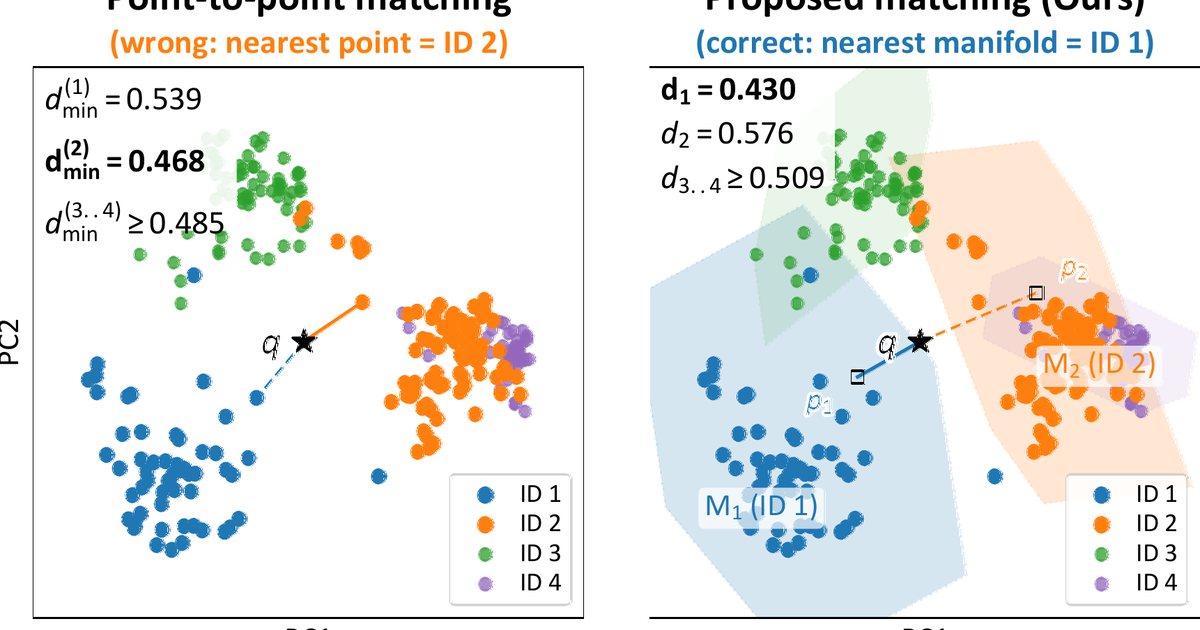
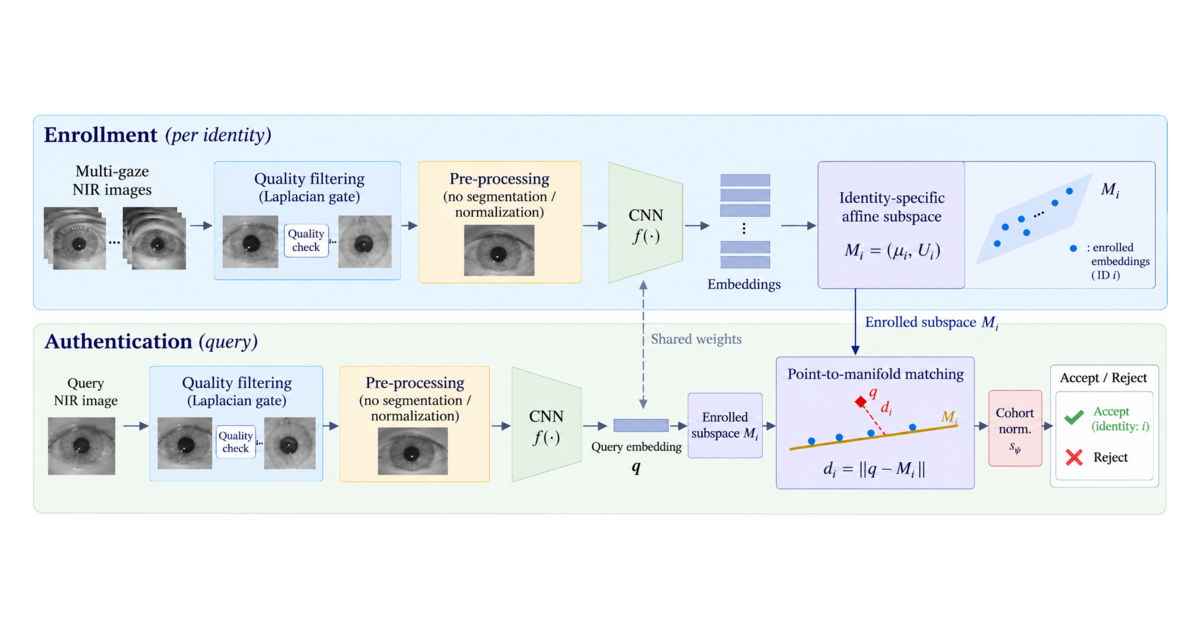
Lead with the overall framework figure
The enrollment/authentication diagram is the overview of the method, so it
now sits directly under the header as the teaser. The PCA matching
comparison moves into Method, where it illustrates what the residual
distance buys. The social card is rebuilt from the framework figure.

Claude-Session: https://claude.ai/code/session_01BNTg7DUGxCZgNQVMPBzqt9

diff --git a/index.html b/index.html
@@ -93,13 +93,14 @@
 <section>
   <div class="wrap">
     <figure>
-      <img src="static/images/fig1_matching.png"
-           alt="PCA projection comparing point-to-point matching, which assigns the query to the wrong identity, against the proposed manifold matching, which assigns it correctly.">
+      <img src="static/images/framework.png"
+           alt="Overview of GazeMM. Enrollment passes an identity's multi-gaze NIR images through a Laplacian quality gate and a shared CNN, then builds an identity-specific affine subspace from the resulting embeddings. Authentication encodes the query the same way, measures its point-to-manifold distance to the enrolled subspace, cohort-normalizes that distance and accepts or rejects.">
       <figcaption>
-        <b>Off-angle acquisition breaks point-to-point matching.</b> For the same query $q$ from ID&nbsp;1
-        (star, CASIA-Iris-Degradation, PCA projection), the nearest <em>individual</em> enrollment embedding
-        belongs to ID&nbsp;2 &mdash; gaze has pushed the genuine points away. GazeMM measures the orthogonal
-        residual to each identity's affine subspace $M_i$ (shaded) instead, and recovers the correct identity.
+        <b>GazeMM in full.</b> Enrollment collapses an identity's multi-gaze embeddings into the affine subspace
+        $M_i = (\mu_i, U_i)$. Authentication encodes the query through the same weights, scores it by its
+        orthogonal distance $d_i$ to that subspace, and normalizes against cohort statistics before applying one
+        global threshold. No gaze estimation, no geometric rectification, and no iris segmentation or polar
+        normalization anywhere in the pipeline.
       </figcaption>
     </figure>
   </div>
@@ -148,17 +149,17 @@
 
     <div class="tight">
       <p>A final cohort-based normalization rescales the residual so that one global threshold works across
-        queries and identities. No gaze estimation, no geometric rectification, no iris segmentation or polar
-        normalization.</p>
+        queries and identities.</p>
     </div>
 
     <figure style="margin-top:30px">
-      <img src="static/images/framework.png"
-           alt="Framework diagram. Enrollment passes multi-gaze NIR images through a quality gate and a shared CNN to build an identity-specific affine subspace; authentication scores a query by its point-to-manifold distance and cohort-normalizes it before accepting or rejecting.">
+      <img src="static/images/fig1_matching.png"
+           alt="PCA projection comparing point-to-point matching, which assigns the query to the wrong identity, against the proposed manifold matching, which assigns it correctly.">
       <figcaption>
-        <b>Enrollment and authentication share one encoder.</b> Enrollment builds $M_i$ from an identity's
-        multi-gaze embeddings; authentication scores a query by its point-to-manifold distance $d_i$ and
-        normalizes it against cohort statistics before thresholding.
+        <b>What that buys.</b> For the same query $q$ from ID&nbsp;1 (star, CASIA-Iris-Degradation, PCA
+        projection), the nearest <em>individual</em> enrollment embedding belongs to ID&nbsp;2 &mdash; gaze has
+        pushed the genuine points away. Measured against the subspaces $M_i$ (shaded) instead, the residual
+        recovers the correct identity.
       </figcaption>
     </figure>
   </div>
